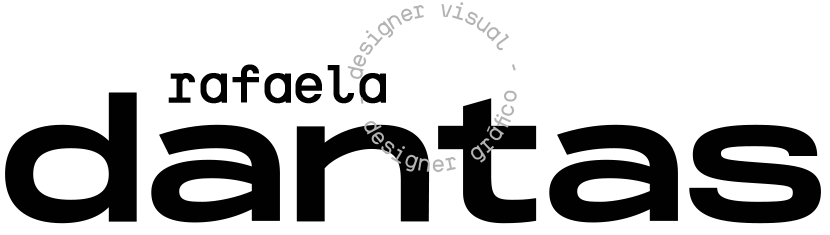
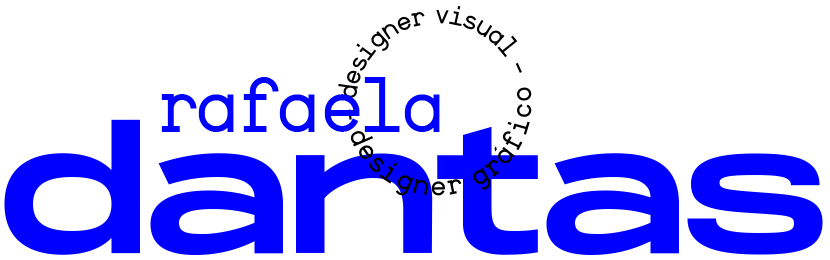
Mudança de cores, font e imagens

diff --git a/_sass/minima/_layout.scss b/_sass/minima/_layout.scss
@@ -2,17 +2,24 @@
  * Site header
  */
 .site-header {
-  border-top: 5px solid $grey-color-dark;
-  border-bottom: 1px solid $grey-color-light;
+  // border-top: 5px solid $grey-color-dark;
+  // border-bottom: 1px solid $grey-color-light; 
   min-height: $spacing-unit * 1.865;
+  background-color: $brand-blue;
 
   // Positioning context for the mobile navigation icon
   position: relative;
 }
 
+.image-home {
+  display: block;
+  margin-top: 180px;
+}
+
 .site-title {
   @include relative-font-size(1.625);
   font-weight: 300;
+  margin-top: 10px;
   line-height: $base-line-height * $base-font-size * 2.25;
   letter-spacing: -1px;
   margin-bottom: 0;
@@ -26,7 +33,8 @@
 
 .site-nav {
   float: right;
-  line-height: $base-line-height * $base-font-size * 2.25;
+  margin-top: 25px;
+  // line-height: $base-line-height * $base-font-size * 2.25;
 
   .nav-trigger {
       display: none;
@@ -37,8 +45,9 @@
   }
 
   .page-link {
-    color: $text-color;
+    color: #fff;
     line-height: $base-line-height;
+
 
     // Gaps between nav items, but not on the last one
     &:not(:last-child) {
@@ -48,11 +57,12 @@
 
   @include media-query($on-palm) {
     position: absolute;
-    top: 9px;
+    top: 20px;
+    margin-top: 0px;
     right: $spacing-unit / 2;
-    background-color: $background-color;
-    border: 1px solid $grey-color-light;
-    border-radius: 5px;
+    background-color: #fff;
+    // border: 2px solid $brand-blue;
+    border-radius: 2px;
     text-align: right;
 
     label[for="nav-trigger"] {
@@ -64,6 +74,11 @@
       cursor: pointer;
     }
 
+    .page-link {
+    color: $brand-blue;
+    line-height: $base-line-height * 2;
+      }
+
     .menu-icon {
       display: block;
       float: right;
@@ -74,7 +89,7 @@
       text-align: center;
 
       > svg {
-        fill: $grey-color-dark;
+        fill: $brand-blue;
       }
     }
 

diff --git a/3 - contato.html b/3 - contato.html
@@ -6,18 +6,18 @@ permalink: /contato/
 
 <h1 class="post-title">Bora conversa mais?</h1>
 
-<!-- <p>Manda um “oi” pra mim se quiser falar sobre qualquer projeto, ideia ou até mesmo alguma dúvida que vai ser um prazer conversar com você e poder te ajudar!</p>
+<!-- <p>Manda um “oi” pra mim se quiser falar sobre qualquer projeto, trocar alguma ideia ou até mesmo alguma tirar dúvida que vai ser um prazer conversar com você e poder te ajudar!</p>
 
 <p><a href="mailto:rafaeladantas@gmail.com">Bora lá!</a></p> -->
-<p>Manda um “oi” pra mim se quiser falar sobre qualquer projeto, ideia ou até mesmo alguma tirar dúvida que vai ser um prazer conversar com você e poder te ajudar!</p>
+<p>Manda um “oi” pra mim se quiser falar sobre qualquer projeto, trocar alguma ideia ou até mesmo tirar alguma dúvida que vai ser um prazer conversar com você e poder te ajudar!</p>
 
- <form method="post" action="https://formbucket.com/f/buk_zSrcKjraDl07r34IilSfpjmW">
-  <label for="fname">Nome:</label><br>
+ <form method="post" action="https://getform.io/f/66b72839-96ab-4125-8a7b-35a43748c73b">
+  <label for="fname">Me diz seu nome</label><br>
   <input type="text" id="fname" name="fname"><br><br>
-  <label for="email">E-mail:</label><br>
+  <label for="email">Seu e-mail</label><br>
   <input type="text" id="email" name="email"><br><br>
   <!-- <input type="text" id="lname" name="lname" value="Seu email"><br><br> -->
-  <label for="lname">Mensagem:</label><br>
+  <label for="lname">E no que posso te ajudar</label><br>
   <textarea name="message" rows="10" cols="30"></textarea>
  <br><br>
   <input type="submit" value="Enviar">

diff --git a/_sass/minima.scss b/_sass/minima.scss
@@ -1,18 +1,21 @@
 @charset "utf-8";
+@import url('https://fonts.googleapis.com/css?family=Inconsolata');
 
 // Define defaults for each variable.
 
-$base-font-family: -apple-system, BlinkMacSystemFont, "Segoe UI", Roboto, Helvetica, Arial, sans-serif, "Apple Color Emoji", "Segoe UI Emoji", "Segoe UI Symbol" !default;
-$base-font-size:   16px !default;
+$base-font-family: Inconsolata, -apple-system, BlinkMacSystemFont, "Segoe UI", Roboto, Helvetica, Arial, sans-serif, "Apple Color Emoji", "Segoe UI Emoji", "Segoe UI Symbol" !default;
+$base-font-size:   18px !default;
 $base-font-weight: 400 !default;
 $small-font-size:  $base-font-size * 0.875 !default;
 $base-line-height: 1.5 !default;
 
-$spacing-unit:     30px !default;
+$spacing-unit:     40px !default;
 
 $text-color:       #111 !default;
-$background-color: #fdfdfd !default;
+$background-color: #ffe600 !default;
 $brand-color:      #0000FF !default;
+$brand-blue:	   #0000ff;
+$brand-yellow:     #ffe600;
 
 $grey-color:       #828282 !default;
 $grey-color-light: lighten($grey-color, 40%) !default;

diff --git a/_includes/footer.html b/_includes/footer.html
@@ -2,34 +2,10 @@
   <data class="u-url" href="{{ "/" | relative_url }}"></data>
 
   <div class="wrapper">
-
-    <!-- <h2 class="footer-heading">{{ site.title | escape }}</h2> -->
-
     <div class="footer-col-wrapper">
-      <!-- <div class="footer-col footer-col-1">
-        <ul class="contact-list">
-          <li class="p-name">
-            {%- if site.author -%}
-              {{ site.author | escape }}
-            {%- else -%}
-              {{ site.title | escape }}
-            {%- endif -%}
-            </li>
-            {%- if site.email -%}
-            <li><a class="u-email" href="mailto:{{ site.email }}">{{ site.email }}</a></li>
-            {%- endif -%}
-        </ul>
-      </div> -->
-
       <div class="footer-col footer-col-1">
         © Copyright 2020
       </div>
-      <!-- <div class="footer-col footer-col-2">
-        {%- include social.html -%}
-      </div> -->
-      <!-- <div class="footer-col footer-col-3">
-        <p>{{- site.description | escape -}}</p>
-      </div> -->
     </div>
 
   </div>

diff --git a/_includes/header.html b/_includes/header.html
@@ -4,7 +4,7 @@
     {%- assign default_paths = site.pages | map: "path" -%}
     {%- assign page_paths = site.header_pages | default: default_paths -%}
     <!-- <a class="site-title" rel="author" href="{{ "/" | relative_url }}">{{ site.title | escape }}</a> -->
-   <a class="page-link" href="{{ "/" | relative_url }}"><img src="{{site.baseurl}}/assets/images/icon-home.png"/></a>
+   <a class="site-title" href="{{ "/" | relative_url }}"><img src="{{site.baseurl}}/assets/images/rd-menu.png"/></a>
 
 
     {%- if page_paths -%}

diff --git a/_layouts/default.html b/_layouts/default.html
@@ -7,20 +7,13 @@
 
     {%- include header.html -%}
 
- <!--    <h2>{{ site.data.listadeartistas.docs_list_title }}</h2>
-     <ul>
-      {% for item in site.data.listadeartistas.docs %}
-        <li><a href="{{ item.url }}">{{ item.title }}</a></li>
-      {% endfor %}
-    </ul> -->
-
     <main class="page-content" aria-label="Content">
       <div class="wrapper">
         {{ content }}
       </div>
     </main>
 
-    {%- include footer.html -%}
+    <!-- {%- include footer.html -%} -->
 
   </body>
 

diff --git a/_layouts/home.html b/_layouts/home.html
@@ -2,6 +2,4 @@
 layout: default
 ---
 
-<br><br><br><br><br><br><br>
-<img src="{{site.baseurl}}/assets/images/img-home.png"/>
-
+<p><img class="image-home" src="{{site.baseurl}}/assets/images/img-home.png"/ alt="logo rafaela dantas"></p>

diff --git a/1 - sobre.html b/1 - sobre.html
@@ -54,8 +54,8 @@ permalink: /sobremim/
 		<h3>Habilidades</h3>
 			<p>Adobe Illustrator & Photoshop</p>
 			<p>Adobe XD</p>
-			<p>Sketch</p>
 			<p>Figma</p>
+			<p>Sketch</p>
 			<p>inVision</p>
 			<p>HTML & CSS</p>
 	</section>
